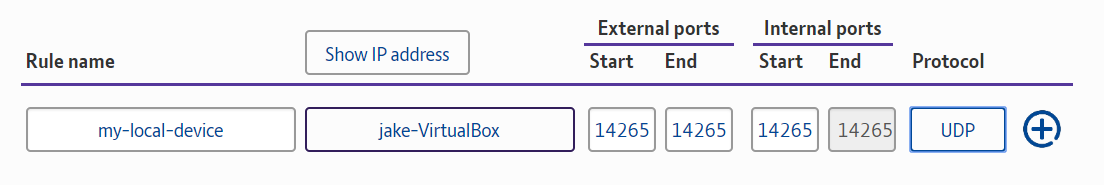
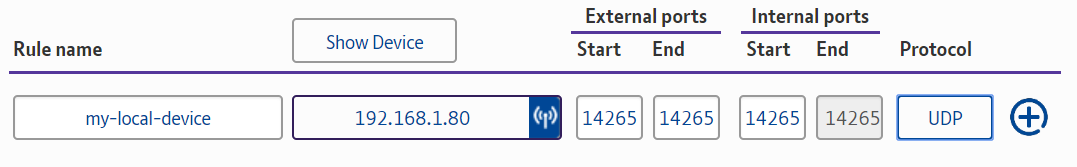
Change image to display IP instead of hostname

diff --git a/general/0.1/how-to-guides/expose-your-local-device.md b/general/0.1/how-to-guides/expose-your-local-device.md
@@ -2,19 +2,19 @@
 
 **To connect a device to those outside of your local network, you can create port forwarding rules to forward requests from your public IP address to your device. A common reason to expose your local device to the Internet is to connect your IOTA node to neighbors.**
 
-Before you can create port forwarding rules, you need a static IP address. If you already have one, [go straight to port forwarding](#create-a-port-forwarding-rule).
+Before you can create port forwarding rules, you need a static IP address on your local network. If you already have one, [go straight to port forwarding](#create-a-port-forwarding-rule).
 
 ## Prerequisites
 
 To complete this guide, you must have a Linux Ubuntu 18.04 server. If you don't have a Linux server and you're running a Windows or Mac operating system, you can [run one in a virtual machine](../how-to-guides/set-up-virtual-machine.md).
 
-## Get a static IP address from your local network
+## Get a static IP address on your local network
 
 Whenever a new device connects to a local network, it's assigned an internal IP address from a DHCP (dynamic host configuration protocol) server, which is usually your router.
 
 Before you can create port forwarding rules, you need the internal IP address of your local device to stay the same. Otherwise, you'd need to update your port forwarding rules every time your IP address changed.
 
-**Note:** Many ways exists to get a static IP from your local network, and this guide is just one way of doing so.
+**Note:** Many ways exists to get a static IP on your local network, and this guide is just one way of doing so.
 
 1. Find your gateway IP address (router's IP address) and make a note of it
 
@@ -74,7 +74,7 @@ To expose a local device to the Internet, you must create port forwarding rules,
 
 ### Prerequisites
 
-You need administrator access to your router and a [static IP address from your local network](#get-a-static-ip-address-from-your-local-network).
+You need administrator access to your router and a [static IP address on your local network](#get-a-static-ip-address-on-your-local-network).
 
 ---
 
